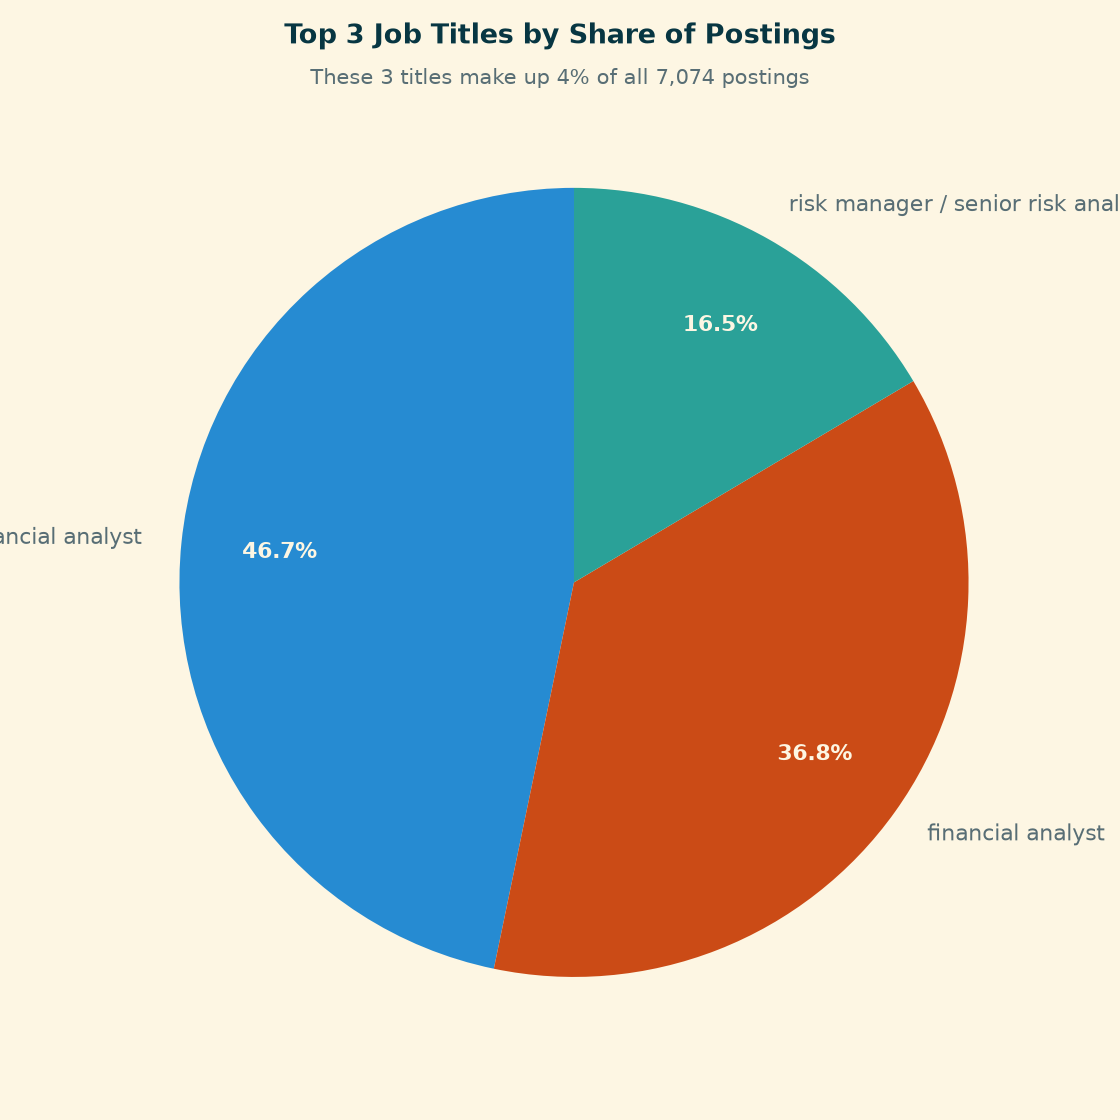
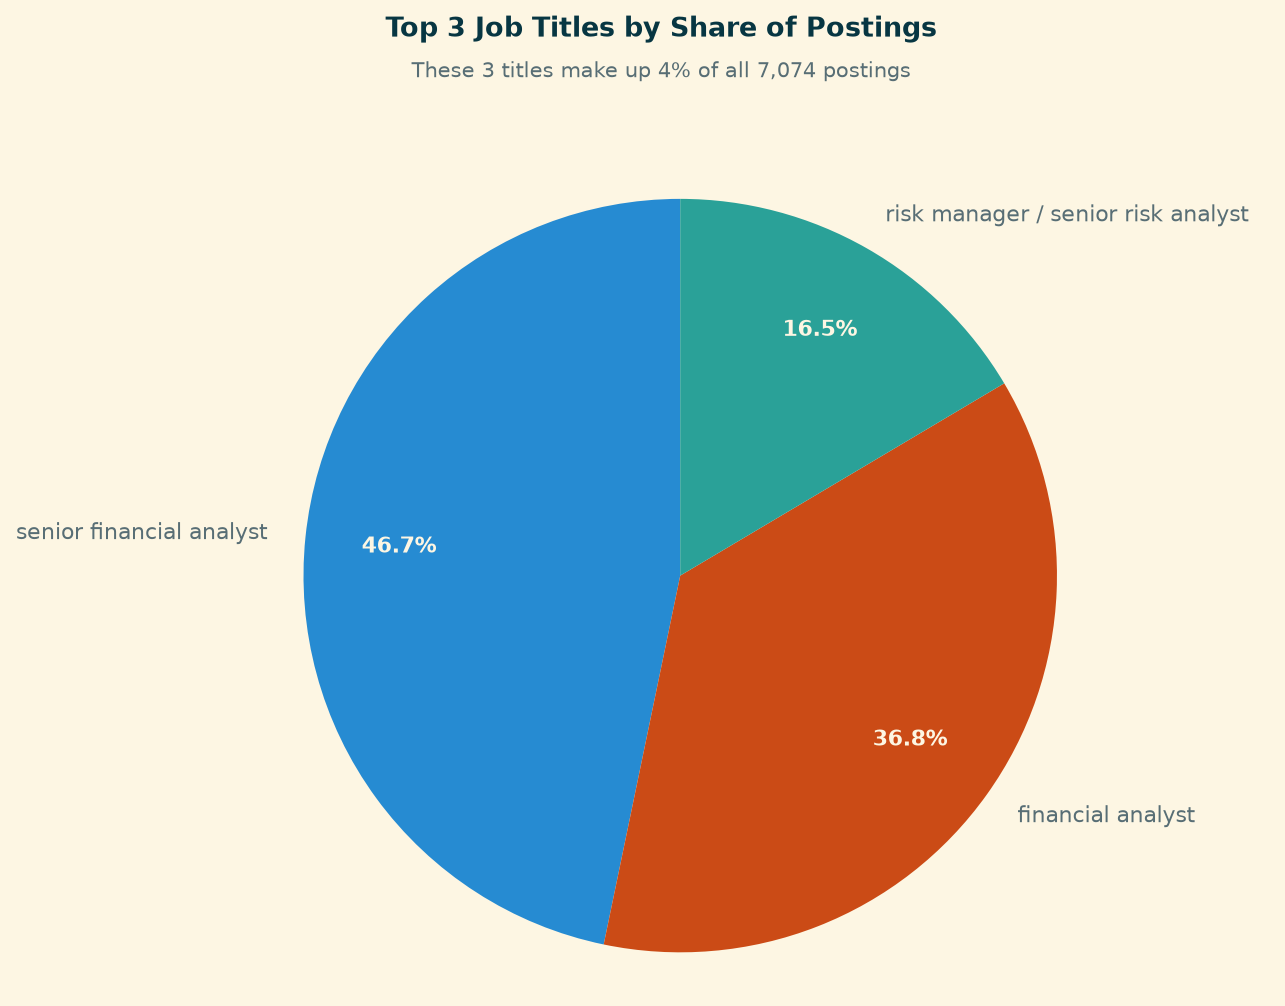
Fix clipped labels on the top-3 titles pie chart
Labels extended past the canvas, so two of three slice names were cut off
in the published figure. Widened the figure and saved with a tight
bounding box. Chart is Katie Bowles' work; only the save geometry changed.

Claude-Session: https://claude.ai/code/session_01AuT5PbpztLrCKqefeEuKmb

diff --git a/notebooks/15_market_baseline_figures.py b/notebooks/15_market_baseline_figures.py
@@ -108,7 +108,7 @@ pie_labels = list(top3_titles.index)
 pie_values = list(top3_titles.values)
 pie_colors = [SOLARIZED_CYCLE[i % len(SOLARIZED_CYCLE)] for i in range(3)]
 
-fig, ax = plt.subplots(figsize=(7, 7))
+fig, ax = plt.subplots(figsize=(9.5, 7))
 wedges, _, autotexts = ax.pie(
     pie_values,
     labels=pie_labels,
@@ -130,7 +130,8 @@ fig.text(0.5, 0.925,
          ha="center", fontsize=9.5, color=INK_SOFT)
 fig.subplots_adjust(top=0.85)
 
-fig.savefig(f"{FIGDIR}/fig_top3_titles_share.png", dpi=160)
+fig.savefig(f"{FIGDIR}/fig_top3_titles_share.png", dpi=160,
+            bbox_inches="tight")
 plt.close(fig)
 note(f"- Top 3 titles combined: {top3_titles.sum():,} postings "
      f"({top3_share_of_total:.0%} of the panel)")
